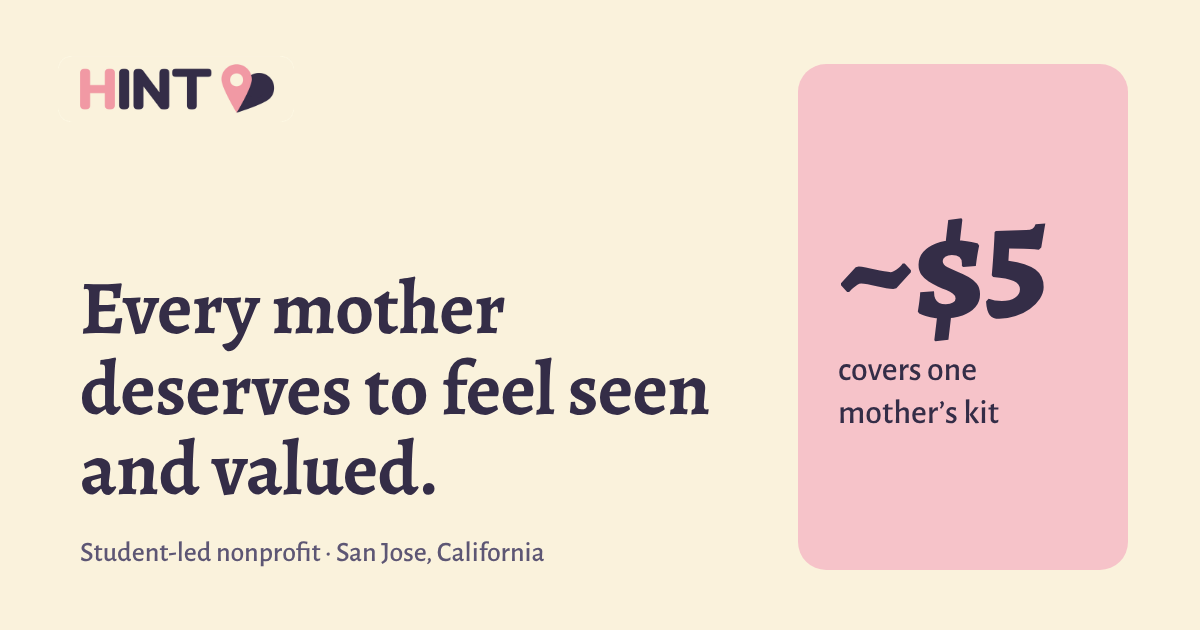
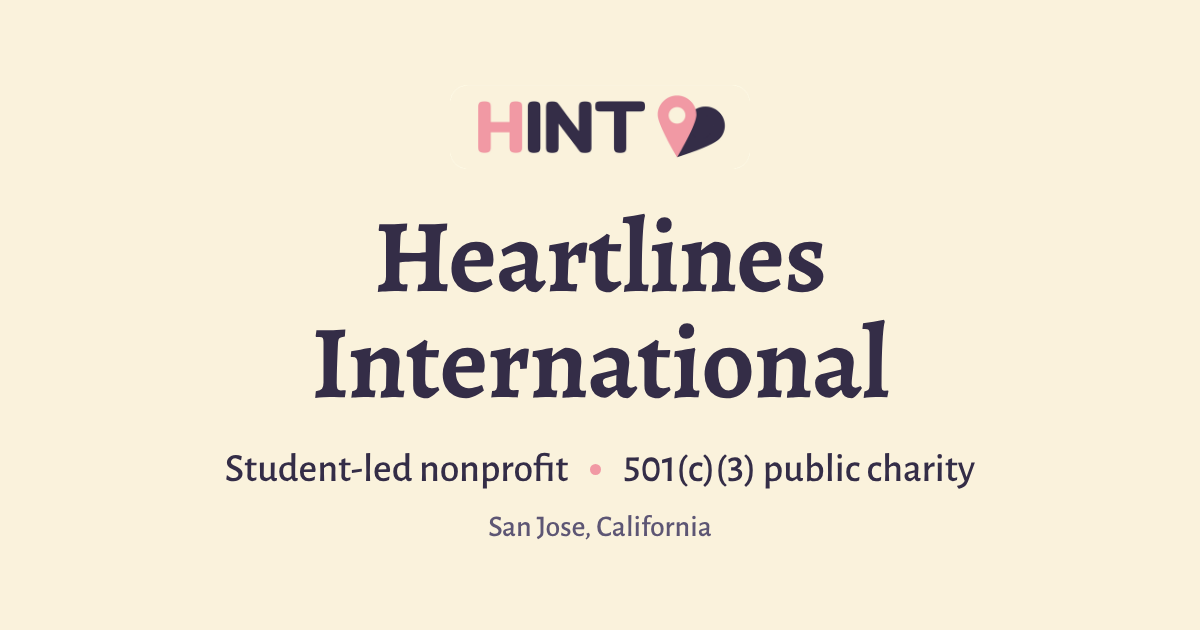
Share card: name and 501(c)(3) status; 501(c)(3) on the home page and in descriptions (#7)
- Share card redone at Jason's request: no $5 figure, no headline; the logo, the name,
  "Student-led nonprofit · 501(c)(3) public charity" and "San Jose, California".
- Home: title "Heartlines International · 501(c)(3) public charity"; hero line
  "Student-led nonprofit · 501(c)(3) public charity · San Jose, California" (breaks only
  at the dots); the closing band notes the October 501(c)(3) recognition.
- Home, About and Get Involved descriptions mention the 501(c)(3) status (all under 155
  characters).

Claude-Session: https://claude.ai/code/session_016ECcn576aRktJuhMHakreS

diff --git a/src/_data/site.js b/src/_data/site.js
@@ -9,9 +9,9 @@ export default {
   // After the first test message, FormSubmit sends an activation email to this inbox; click it once.
   formAction: "https://formsubmit.co/heartlinesinternational@gmail.com",
   // Home page search description (each other page sets its own "description" at the top of its file). Keep under about 155 characters.
-  description: "Student-led San Jose nonprofit sending iron tablets, health guides in Tagalog and English, and handwritten cards to mothers at a clinic in the Philippines.",
-  // Link previews (texts, Instagram, Facebook): images/share-card.png, 1200x630, made from the home page's own words.
-  shareImageAlt: "Heartlines International: Every mother deserves to feel seen and valued. About $5 covers one mother’s kit.",
+  description: "Student-led 501(c)(3) public charity in San Jose sending iron tablets, health guides and handwritten cards to mothers in the Philippines.",
+  // Link previews (texts, Instagram, Facebook): images/share-card.png, 1200x630: the logo, the name, and the home page's "Student-led nonprofit · 501(c)(3) public charity · San Jose, California" line.
+  shareImageAlt: "Heartlines International: student-led nonprofit, 501(c)(3) public charity, San Jose, California.",
   nav: [
     { href: "index.html", label: "Home" },
     { href: "about.html", label: "About" },

diff --git a/CLAUDE.md b/CLAUDE.md
@@ -23,7 +23,7 @@ Read this before every change. It is the only context you have about this organi
 - Contact (Nov 22, 2026, Jason's request): the Get Involved page has a contact form that posts to FormSubmit (`site.formAction` in `src/_data/site.js`) with no JavaScript. Fields: name, email, topic, message only; a hidden `_honey` field catches bots; `_next` returns to `get-involved.html#sent`, where CSS `:target` shows the thank-you note. FormSubmit holds messages until the founders click its one-time activation email in the HINT inbox. No `mailto:` links anywhere (they open whatever mail app a visitor's computer has, often Outlook): every "email us" points to `#contact`, and the address is shown as plain text, at the same size as the Instagram handle. Each field is a `div.field` with its own `<label for>`, and the one-line boxes share one height so the name, email and topic boxes line up (Nov 23). The email field also has a `pattern` (needs a dot after the @, e.g. name@example.com) and a hint; a wrong address gets a pink border once the visitor moves on (CSS `:user-invalid`, no JavaScript). The footer email is pink plain text that selects in one click (`user-select: all`), matching the pink links (Nov 22, Jason). If spam arrives, set `_captcha` to "true". If FormSubmit ever stops working, Web3Forms is the fallback (needs an access key from the founders).
 - About page order: Our story, then "Why iron matters" (the facts sit next to the story they support), then progress, how a cycle works, founders, accountability, the Donate band, and Sources last (the numbered list only; the footer links to about.html#sources and the Home page links to #src2, #src4 and #src5, so keep those ids).
 - Keep `robots.txt`, `sitemap.xml` and the JSON-LD block in each page's head (it lives in `src/_includes/jsonld.njk`; they help Google show the organization and its founders). Add any new page to `sitemap.xml`.
-- Search and link previews (Nov 23, 2026, Jason): each page sets its own `description` at the top of its file (Home uses `site.description`); keep each under about 155 characters and true to the page. `base.njk` adds a canonical link (not on the 404 page), `og:title` (the page title), `og:description`, `og:image` = `images/share-card.png` (1200x630) and `twitter:card` summary_large_image. The share card uses only the home page's own words (the headline, "~$5 covers one mother's kit", "Student-led nonprofit · San Jose, California") and the logo; if those change on the site, remake the card to match.
+- Search and link previews (Nov 23, 2026, Jason): each page sets its own `description` at the top of its file (Home uses `site.description`); keep each under about 155 characters and true to the page. `base.njk` adds a canonical link (not on the 404 page), `og:title` (the page title), `og:description`, `og:image` = `images/share-card.png` (1200x630) and `twitter:card` summary_large_image. The share card (redone Nov 23 at Jason's request: no $5 figure, no headline) shows only the logo, the name and the home page's "Student-led nonprofit · 501(c)(3) public charity · San Jose, California" line; if that line changes on the site, remake the card to match. The home page title is "Heartlines International · 501(c)(3) public charity".
 
 ## Style
 - Static HTML and CSS built with Eleventy, the only build tool. Pages are Nunjucks templates in `src/` (`src/about.njk` builds `about.html`); every page shares one header, Donate button and footer from `src/_includes/`, and shared facts (Donate link, email, Instagram, nav) live in `src/_data/site.js`. Static files (`styles.css`, `images/`, `robots.txt`, `sitemap.xml`, `CNAME`) stay in the repo root.
